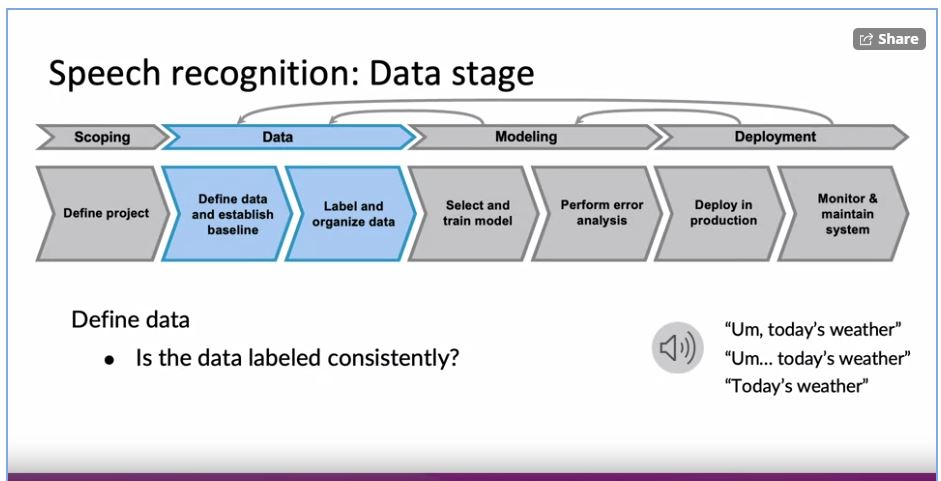
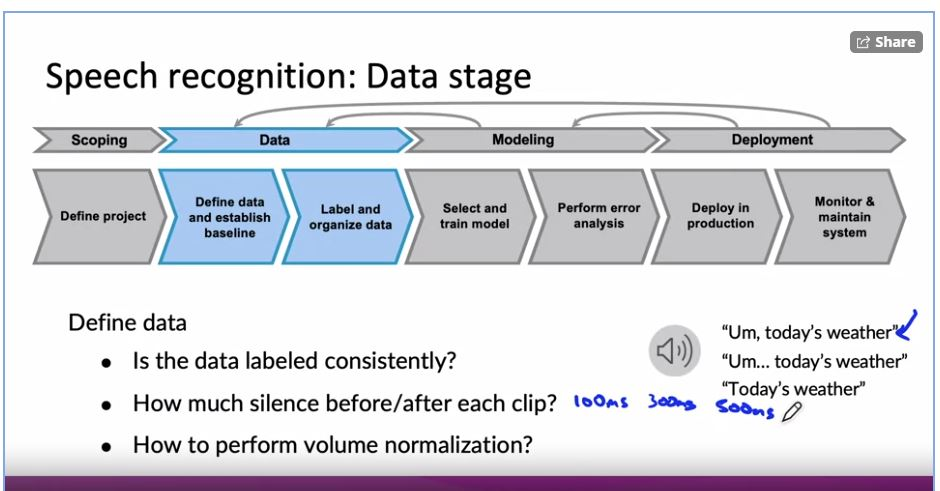
aDD

diff --git a/Exam Preparation/ML_OPS_Notes.md b/Exam Preparation/ML_OPS_Notes.md
@@ -23,3 +23,7 @@ Prediction server can be hosted into
 
 ![im](https://github.com/amitkml/AWS-MachineLearning/blob/main/img/speech_scoping.JPG?raw=true)
 
+Now, we need to think about data for the project. **One of the problem with data is that, consistency of data labelling**.
+
+![im](https://github.com/amitkml/AWS-MachineLearning/blob/main/img/speech_data.JPG?raw=true)
+
